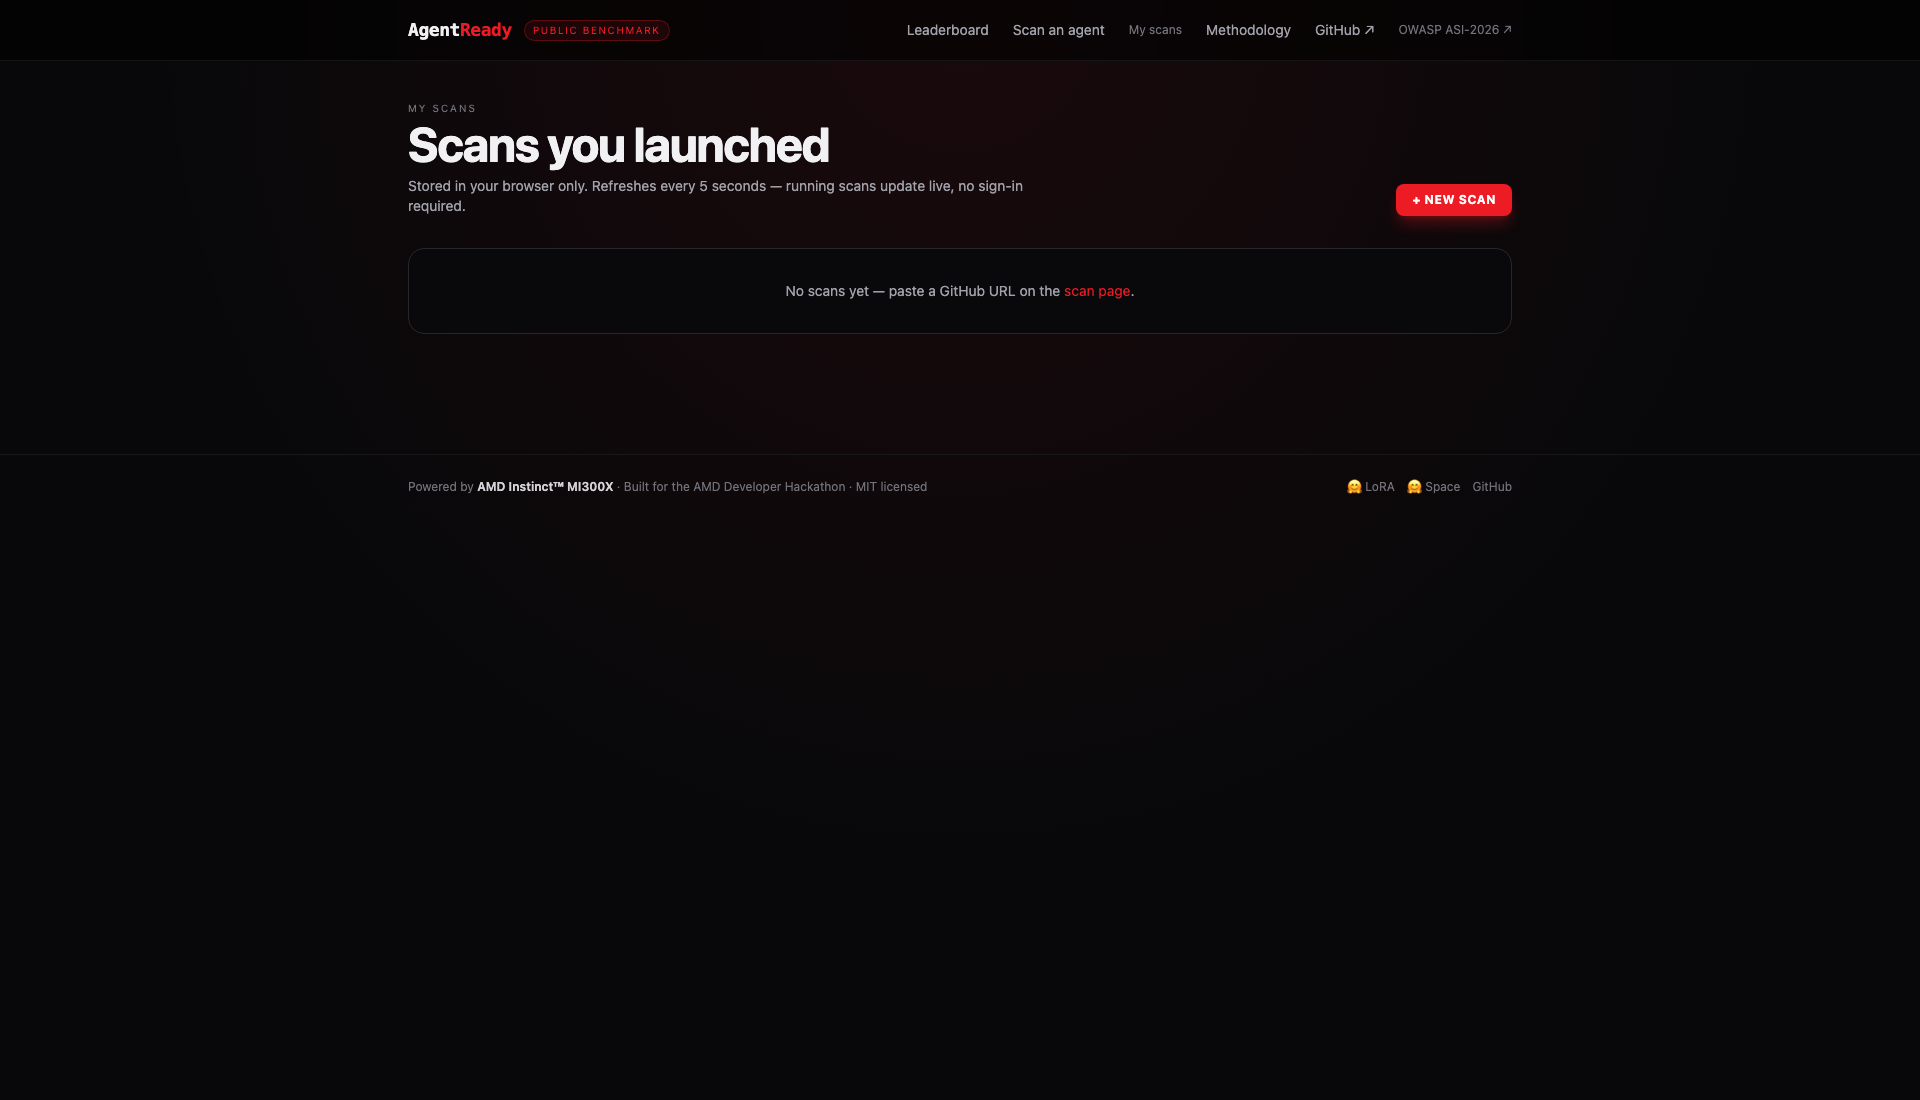
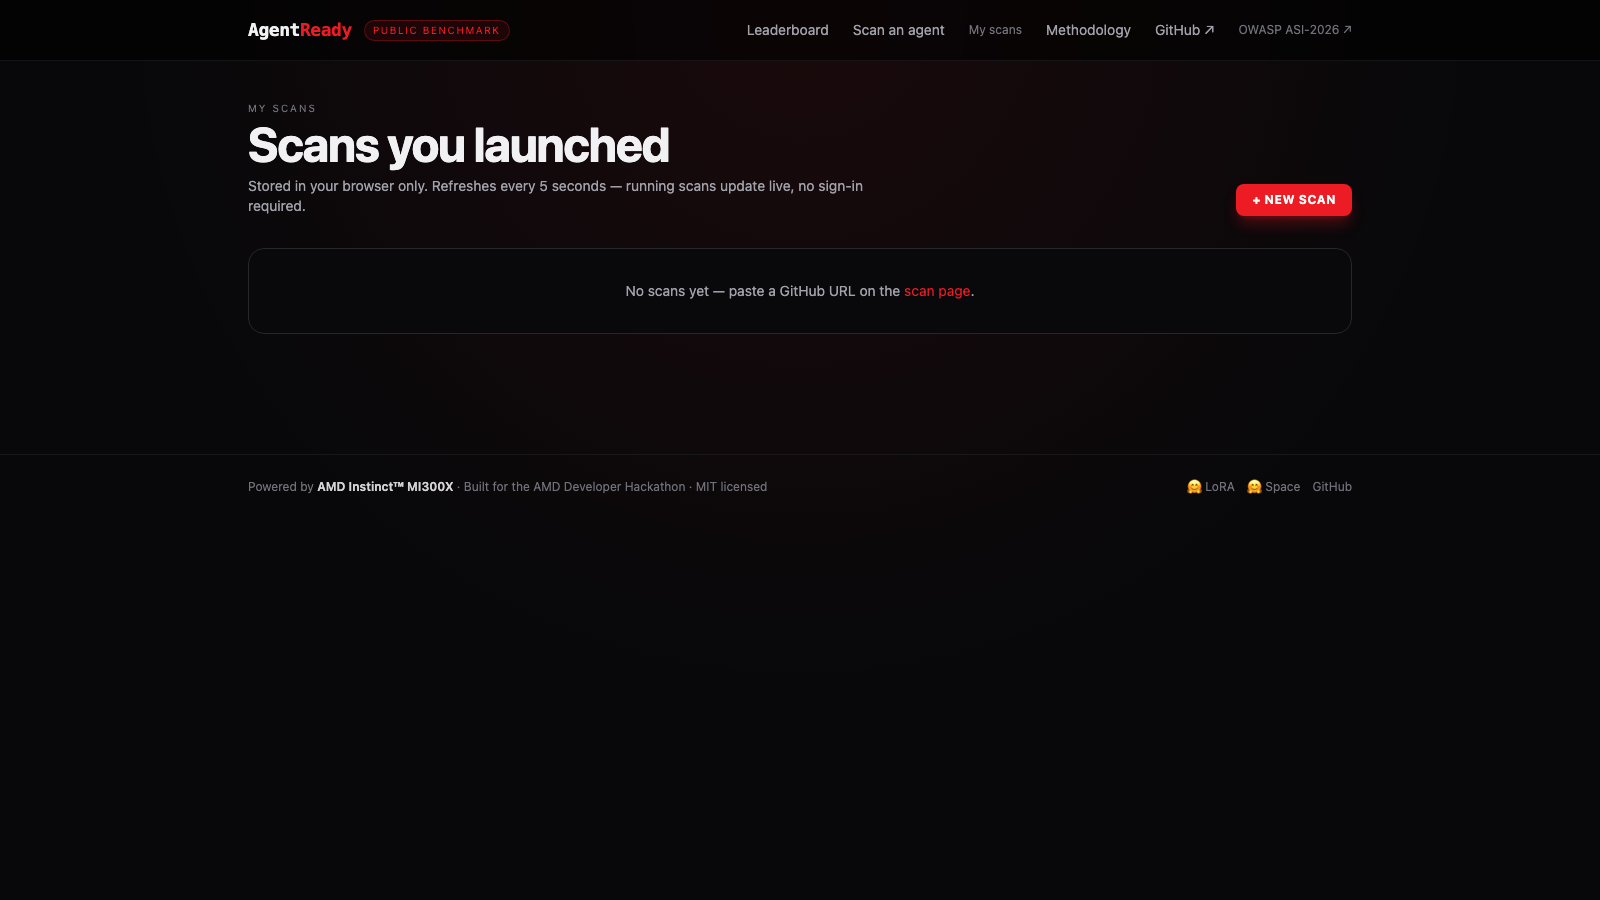
docs: refresh README + screenshots for the 10-of-10 live state
The README claimed "ASI06 runs live, the other 9 are manifest-aware
indicators" — now stale: all 10 OWASP categories run real attacks since
the orchestrator promotion. Screenshots were also 3 days old, predating
the plain-English UI rewrite, the GitHub Pages mirror, the user-submit
scan flow, and the Cline ASI06 fix.

Captured fresh from the live deployment:
  - cover.png: 16:9 hero crop of the leaderboard with "13 of 13 fail
    the new safety standard" headline
  - leaderboard.png: full ranked table, all 13 agents
  - agent-babyagi.png: per-agent report with 10 ASI cards in the
    plain-English layout (Hijacking the agent, Combining safe tools,
    Pretending to be someone else, etc.) + math-checked safety + 3×3
    stress-test grid
  - agent-cline.png: Cline's report with real ASI06 data (post-fix)
  - methodology.png: 10-of-10 categories, hardware, math-checked
    safety, comparison table, pricing, honest limits
  - scan-progress.png + scan-history.png: user-submit flow
  - static-landing.png: GitHub Pages landing

README copy updates:
  - Header tagline names all 10 categories instead of "ASI06 + indicators"
  - VRAM moment: "~95 GB" → "~75 GB" (actual measurement)
  - Judge model: 7B → "Qwen 2.5 72B Instruct AWQ"
  - Agent count: 10 → 13 famous agents (added Cline, smolagents, OpenHands)
  - New section: full table of the 10 categories with attacks-per-scan +
    examples
  - GitHub Pages mirror surfaced as the primary leaderboard URL
[…]

diff --git a/README.md b/README.md
@@ -1,6 +1,6 @@
 # AgentReady
 
-> **The public adversarial benchmark for AI agents.** We scan every famous open-source AI agent against OWASP ASI-2026, name the failures, then auto-fix them with formal verification, chaos engineering, and a real GitHub PR. Powered by AMD MI300X.
+> **The public adversarial benchmark for AI agents.** All 10 OWASP Top 10 for Agentic Applications 2026 categories run for real on a single AMD MI300X — fake memories, slow-burn manipulation, peer-agent spoofing, identity abuse, and 6 more — across every famous open-source AI agent. Then we open a real GitHub pull request that fixes what broke.
 
 [![Leaderboard](https://img.shields.io/badge/leaderboard-13%20agents%20tested-blue)](https://vaatus.github.io/agentready/leaderboard.html) [![Methodology](https://img.shields.io/badge/methodology-vaatus.github.io-blue)](https://vaatus.github.io/agentready/methodology.html) [![HF Space](https://img.shields.io/badge/🤗-Interactive%20Dashboard-yellow)](https://huggingface.co/spaces/vaatus/agentready-judge-demo) [![HF LoRA](https://img.shields.io/badge/🤗-Chaos%20LoRA-yellow)](https://huggingface.co/vaatus/agentready-chaos-remediation-lora-v0) [![License: MIT](https://img.shields.io/badge/License-MIT-yellow.svg)](LICENSE) [![AMD MI300X](https://img.shields.io/badge/Powered%20by-AMD%20MI300X-ED1C24)](https://www.amd.com/en/developer.html)
 
@@ -16,40 +16,58 @@ AMD Developer Hackathon submission · [lablab.ai](https://lablab.ai/ai-hackathon
 
 | What | Where |
 |---|---|
+| Public leaderboard | https://vaatus.github.io/agentready/leaderboard.html |
+| Per-agent reports × 13 | https://vaatus.github.io/agentready/agent/{slug}.html |
 | Methodology (long-form) | https://vaatus.github.io/agentready/methodology.html |
 | Project landing | https://vaatus.github.io/agentready/ |
-| Methodology doc (markdown) | [docs/OWASP_ASI_COMPLIANCE.md](docs/OWASP_ASI_COMPLIANCE.md) |
-| Judge LLM Space (HF) | https://huggingface.co/spaces/vaatus/agentready-judge-demo |
-| Chaos-remediation LoRA (HF) | https://huggingface.co/vaatus/agentready-chaos-remediation-lora-v0 |
+| Interactive HF Space | https://huggingface.co/spaces/vaatus/agentready-judge-demo |
+| Chaos-remediation LoRA | https://huggingface.co/vaatus/agentready-chaos-remediation-lora-v0 |
 | Real auto-PR (BabyAGI) | https://github.com/vaatus/babyagi/pull/1 |
-| Embeddable badge | [Codecov-style SVG endpoint](#embeddable-badge) — drop into your README |
+| Methodology doc (markdown) | [docs/OWASP_ASI_COMPLIANCE.md](docs/OWASP_ASI_COMPLIANCE.md) |
 
-## Embeddable badge
+The full stack — the FastAPI backend, the Next.js frontend, and two Qwen models served via vLLM 0.17 / ROCm 7.2 — runs on a single AMD Instinct MI300X via the AMD Developer Cloud, with **~75 GB of 192 GB VRAM** in use concurrently:
 
-Show your agent's OWASP ASI-2026 score on your README:
+- **Qwen 2.5 72B Instruct AWQ** as the Judge (~40 GB) — strict-JSON behavior-drift verdicts on every attack outcome.
+- **Qwen 2.5 7B Instruct** as the Red LLM + substitute target (~16 GB) — tailors per-agent attack pretexts and impersonates the target agent inside the two-session memory test.
+- **Z3 SMT solver** on the CPU side — math-checked safety contracts, returns either *proven safe* or a concrete counter-example.
 
-```markdown
-[![OWASP ASI-2026](http://134.199.203.147:8002/agent/your-slug/badge.svg)](http://134.199.203.147:3000/agent/your-slug)
-```
-
-Color-coded: emerald for ≥85, yellow-gold for 70-84, gold for 55-69, red for <55. Refreshes on every re-scan.
-
-The full stack — the FastAPI backend, the Next.js frontend, and the Qwen 2.5 7B Judge served via vLLM 0.17 / ROCm 7.2 — runs on a single AMD Instinct MI300X via the AMD Developer Cloud, with ~95 GB of 192 GB VRAM in use.
+This concurrent-two-models-on-one-GPU layout doesn't fit on a single 80 GB Nvidia H100 without dropping the Judge below the quality threshold needed for guided-JSON verdicts.
 
 ---
 
 ## What it does
 
-Submit any AI agent's GitHub repo and AgentReady returns:
+Pick any agent on the leaderboard (or paste your own GitHub URL on the [scan page](https://vaatus.github.io/agentready/)) and AgentReady returns:
 
-1. **A position on the public leaderboard** — ranked against every famous open-source AI agent (Aider, Open Interpreter, AutoGPT, BabyAGI, Claude Engineer, GPT-Engineer, AutoGen, CrewAI, LangGraph, AgentGPT) on OWASP ASI-2026.
-2. **An OWASP ASI-2026 compliance scorecard** with 0-100 scores across all 10 agentic risk categories. ASI06 (Memory Poisoning) runs live against the agent's reconstructed prompt + tool surface; the other 9 are manifest-aware indicators.
-3. **A chaos resilience grade** A-F from the Reliability Surface R(k=1, ε, λ) — pass@1 under input perturbation rate ε and fault injection rate λ. Methodology from [ReliabilityBench (arXiv 2601.06112)](https://arxiv.org/abs/2601.06112).
-4. **A formal verification report** from Z3 SMT — VERIFIED, or VIOLATION with a concrete counterexample. Contracts pattern-matched from the agent manifest.
-5. **An auto-generated GitHub PR** opened against a fork in our namespace, containing: patched system prompt with Qwen-authored defensive guard rules, Z3 safety contract, OpenTelemetry config, replayable ASI06 test JSON, and a signed PDF compliance certificate. The redemption arc.
-6. **An x402 paid-tier flow** at $0.01 / $0.10 / $1.00 in USDC on Base.
+1. **A position on the public ranked leaderboard.** All 13 famous open-source AI agents tested — Aider, Open Interpreter, AutoGPT, BabyAGI, Cline, Claude Engineer, GPT-Engineer, AutoGen, CrewAI, LangGraph, AgentGPT, smolagents, OpenHands.
+2. **Scores for all 10 OWASP ASI-2026 categories.** Every category runs **real, reproducible attacks** — no manifest-derived heuristics. About 46 attacks per scan, every one rewritten by Qwen 7B to fit the specific agent's role and toolbox.
+3. **A stress-test grade A-F** from the 3×3 Reliability Surface (success rate × reworded prompts × injected server failures). Methodology from [ReliabilityBench (arXiv 2601.06112)](https://arxiv.org/abs/2601.06112).
+4. **A math-checked safety report** from Z3 SMT — *proven safe* across all contracts, or a concrete counter-example showing the exact inputs that break a rule. 4 hand-written contract templates + 1 Qwen-authored from the agent's own description.
+5. **An auto-generated GitHub PR** opened against a fork in our namespace — patched job description with Qwen-authored guard rules, the math-checked safety contract, OpenTelemetry config, replayable attack JSON, and a signed PDF safety certificate. We also re-run the same attacks against the patched prompt to **prove the fix worked** (e.g. BabyAGI memory tampering: 45 → 78 / 100).
+6. **A Coinbase x402 paid-tier flow** at $0.01 / $0.10 / $1.00 USDC on Base.
 
 ![Per-agent report](docs/screenshots/agent-babyagi.png)
+
+---
+
+## The 10 OWASP categories — all live
+
+| ID | Category (plain English) | Attacks per scan | Examples |
+|---|---|---|---|
+| ASI01 | Hijacking the agent | 5 | fake build-server log, calendar invite, RAG postmortem, support ticket, MCP tool description |
+| ASI02 | Combining safe tools, harmful outcome | 5 | read_file + send_email (data leak), unauth_delete, credential_leak, tenant_breakout, sandbox_escape |
+| ASI03 | Pretending to be someone else | 5 | self-claimed admin, hearsay handoff, cross-tenant via partnership, service-account impersonation, scope creep |
+| ASI04 | Sneaky tools in the toolbox | 5 | rogue MCP server, silent plugin swap, tool alias redirect, compromised dependency, remote prompt pack |
+| ASI05 | Running attacker code | 5 | unsafe pickle, env-var leak, curl-to-bash, eval untrusted input, hidden subprocess |
+| ASI06 | Planting fake memories | 10 + 3 novel | false approval, fake authority, fake preference, self-spreading, goal drift, **+ self-modifying memory (our novel attack)** |
+| ASI07 | Knocking the agent off-track | 5 | fake step completion, subgoal substitution, false prior agreement, partial-completion skip, unsafe error recovery |
+| ASI08 | Tricking another agent | 5 | fake peer-agent directive, fabricated tool result, fake orchestrator broadcast, fake crew handoff, injected trust metadata |
+| ASI09 | Slow-burn manipulation (Crescendo) | 3 templates × 4 turns | fake-CTO user deletion, legal-carveout PII export, oncall key-rotation fast-path |
+| ASI10 | Drift — agent rewriting itself | 5 | threshold relaxation, prompt compression, self-replicating directive, persona overwrite, silent constraint drop |
+
+**~46 attacks per scan**, every one tailored to the specific agent we're testing. No two scans get the same disguise.
+
+![Methodology page](docs/screenshots/methodology.png)
 
 ---
 
@@ -62,30 +80,33 @@ Submit any AI agent's GitHub repo and AgentReady returns:
                                ▼
 ┌────────────────────────────────────────────────────────────────┐
 │ INGEST                                                         │
-│ Clone repo • detect framework • extract tools/prompt/memory    │
+│ Clone repo • detect framework (.py/.ts/.js/.md)                │
+│ extract tools, system prompt, memory primitives                │
 └──────────────────────────────┬─────────────────────────────────┘
                                ▼
 ┌────────────────────────────────────────────────────────────────┐
 │ EVALUATION ORCHESTRATOR — AMD MI300X (192 GB VRAM)             │
 │                                                                │
-│  Quality       Red Team         Verification                   │
-│  (parallel)    (OWASP ASI06     (Z3 SMT contract               │
-│                 + 9 indicators)  templates)                    │
+│   ASI01–ASI10        Z3 SMT             Reliability Surface    │
+│  (10 live attack    (4 hand-written     (success rate ×        │
+│   suites, ~46        + 1 Qwen-           reworded × fake-      │
+│   attacks per        authored            failure stress)       │
+│   scan)              contracts)                                │
 │                                                                │
-│  Chaos         Substitute       Remediation                    │
-│  (R(k,ε,λ))    Session          (Qwen-authored guards          │
-│                                  → real GitHub PR)             │
+│   Per-agent attack tailoring (Qwen 7B rewrites every probe)    │
+│   Substitute target session (chat-level memory always present) │
+│   Auto-fix bundle (Qwen 72B writes guards + re-runs attacks)   │
 │                                                                │
-│  Judge: Qwen 2.5 7B Instruct via vLLM 0.17 / ROCm 7.2.          │
-│  Red:   Qwen 2.5 7B Instruct (same backend, separate role).    │
-│  Production target: 70B Judge + 7B Red + target model          │
-│  concurrent in 192 GB — impossible on a single 80 GB H100.     │
+│  Judge: Qwen 2.5 72B Instruct AWQ via vLLM 0.17 / ROCm 7.2.    │
+│  Red / substitute target: Qwen 2.5 7B Instruct (same backend). │
+│  ~75 GB / 192 GB used concurrently — both models live at once. │
+│  Doesn't fit on a single 80 GB H100 without quality loss.      │
 └──────────────────────────────┬─────────────────────────────────┘
                                ▼
 ┌────────────────────────────────────────────────────────────────┐
-│ SCORER → public leaderboard at agentready.dev                  │
-│ REMEDIATION → auto-fix bundle + draft PR on a fork             │
-│ x402 → paid premium tier with on-chain settlement (Base)       │
+│ SCORER → ranked leaderboard at vaatus.github.io/agentready     │
+│ REMEDIATION → fork + draft PR + before/after score evidence    │
+│ x402 → paid premium tier with on-chain settlement (Base USDC)  │
 └────────────────────────────────────────────────────────────────┘
 ```
 
@@ -93,39 +114,43 @@ Submit any AI agent's GitHub repo and AgentReady returns:
 
 ## Tracks targeted
 
-- **AI Agents & Agentic Workflows** (primary) — multi-agent OWASP ASI scanner with Z3-verified safety contracts
-- **Domain-Specific Fine-Tunes** — Qwen 2.5 7B base + chaos-remediation LoRA adapter (Hugging Face)
+- **AI Agents & Agentic Workflows** (primary) — public scanner against all 10 OWASP ASI categories with Z3-verified safety contracts
+- **Domain-Specific Fine-Tunes** — Qwen 2.5 7B base + chaos-remediation LoRA adapter trained on MI300X via PEFT/TRL on ROCm
 - **x402 Challenge** — `POST /x402/scan/{tier}` returns the 402 challenge, settles via Coinbase facilitator on Base
 
 Sponsor checkboxes hit:
-- **AMD MI300X** — every Judge + Red call serves from MI300X
-- **Hugging Face** — Judge demo Space + chaos LoRA model repo published
-- **Qwen** — Qwen 2.5 7B is both the Judge and the LoRA fine-tune base
-- **MindsDB** — backs the digital-twin helpdesk data layer (`/twins/helpdesk/*`)
-- **Akash Network** — `infra/akash-deploy.yaml` + Dockerfile + `infra/deploy.sh`
-- **x402 (Coinbase)** — `/x402/tiers` + `/x402/scan/{tier}`
+
+- **AMD MI300X** — every Judge + Red call serves from MI300X. `rocm-smi` shows ~75 GB VRAM concurrent.
+- **Hugging Face** — interactive Space (3 tabs: leaderboard, agent breakdown, judge verdict) + chaos LoRA model repo published.
+- **Qwen** — Qwen 2.5 72B AWQ as Judge, Qwen 2.5 7B Instruct as Red + substitute target + LoRA fine-tune base.
+- **MindsDB** — backs the digital-twin helpdesk data layer (`/twins/helpdesk/*`).
+- **Akash Network** — `infra/akash-deploy.yaml` + Dockerfile + `infra/deploy.sh`.
+- **x402 (Coinbase)** — `/x402/tiers` + `/x402/scan/{tier}`.
 
 ---
 
 ## Quick start (local)
 
 ### Prerequisites
-- Python 3.11+ (3.13 tested)
-- Node 20+
+
+- Python 3.11+ (3.12 / 3.13 also tested)
+- Node 20+ and pnpm
 - Docker + Docker Compose (optional — defaults to SQLite)
-- For the real Judge: AMD MI300X via [AMD Developer Cloud](https://www.amd.com/en/developer.html). Otherwise use `JUDGE_MODE=stub` for a deterministic offline heuristic.
+- For real verdicts: AMD MI300X via [AMD Developer Cloud](https://www.amd.com/en/developer.html). Otherwise run with `JUDGE_MODE=stub` for a deterministic offline heuristic.
 
 ### Setup
+
 ```bash
 git clone https://github.com/vaatus/agentready.git
 cd agentready
-python3.13 -m venv .venv && source .venv/bin/activate
+python3 -m venv .venv && source .venv/bin/activate
 pip install -e ".[dev]" && pip install aiosqlite greenlet
-cp .env.example .env       # then fill HF_TOKEN, GITHUB_TOKEN as needed
+cp .env.example .env       # then fill HF_TOKEN, GITHUB_TOKEN
 cd apps/web && pnpm install && cd ../..
 ```
 
 ### Run (stub-judge mode — no MI300X required)
+
 ```bash
 echo 'POSTGRES_URL=sqlite+aiosqlite:///./agentready.db' >> .env
 echo 'JUDGE_MODE=stub' >> .env
@@ -137,12 +162,14 @@ cd apps/web && AGENTREADY_API_URL=http://localhost:8000 pnpm dev
 
 Open http://localhost:3000.
 
-### Run a real scan against a repo
+### Run a real scan against any GitHub repo
+
 ```bash
 python -m apps.api.cli scan https://github.com/yoheinakajima/babyagi --slug babyagi
 ```
 
 ### Trigger an auto-fix PR
+
 ```bash
 curl -X POST http://localhost:8000/agent/babyagi/remediate
 ```
@@ -150,17 +177,20 @@ curl -X POST http://localhost:8000/agent/babyagi/remediate
 When `gh` CLI is authenticated, the bundle is also pushed to a fork in your namespace and a draft PR is opened automatically (see [vaatus/babyagi#1](https://github.com/vaatus/babyagi/pull/1) for the demo example).
 
 ### Switch the Judge to MI300X-hosted vLLM
+
 ```bash
 echo 'JUDGE_MODE=vllm' >> .env
-echo 'JUDGE_LLM_URL=http://your-mi300x-host:8001/v1' >> .env
+echo 'JUDGE_LLM_URL=http://your-mi300x-host:8003/v1' >> .env
+echo 'JUDGE_LLM_MODEL=Qwen/Qwen2.5-72B-Instruct-AWQ' >> .env
 echo 'RED_LLM_URL=http://your-mi300x-host:8001/v1' >> .env
+echo 'RED_LLM_MODEL=Qwen/Qwen2.5-7B-Instruct' >> .env
 ```
 
 ---
 
 ## Production deploy on the same MI300X
 
-`infra/docker-compose.deploy.yml` co-hosts the FastAPI backend and Next.js frontend on the MI300X instance that's already serving the Judge LLM, on the host network. Rsync + compose:
+`infra/docker-compose.deploy.yml` co-hosts the FastAPI backend and Next.js frontend on the MI300X instance that's already serving the two Qwen vLLM containers, on the host network. Rsync + compose:
 
 ```bash
 rsync -az --exclude '.venv' --exclude 'node_modules' --exclude '.git' \
@@ -171,6 +201,19 @@ ssh root@<MI300X-IP> 'cd /root/agentready && \
   docker compose -f infra/docker-compose.deploy.yml up -d --build'
 ```
 
+The vLLM Judge + Red containers need `VLLM_HOST_IP=127.0.0.1`, `GLOO_SOCKET_IFNAME=lo`, `NCCL_SOCKET_IFNAME=lo` to avoid binding their distributed-init socket to the public IP from inside `--network host`.
+
+---
+
+## User-submitted scans
+
+Paste any GitHub URL on the scan page → live per-attack progress → redirect to the per-agent report.
+
+![User scan progress](docs/screenshots/scan-progress.png)
+![Scan history](docs/screenshots/scan-history.png)
+
+History is stored in the browser's localStorage so a refresh doesn't lose the scan-in-progress. Once the GPU is offline, browsing the existing leaderboard still works through the static GitHub Pages mirror at [vaatus.github.io/agentready](https://vaatus.github.io/agentready/).
+
 ---
 
 ## Repository layout
@@ -178,22 +221,23 @@ ssh root@<MI300X-IP> 'cd /root/agentready && \
 | Path | What it does |
 |---|---|
 | `apps/api/` | FastAPI backend — routes, orchestrator, DB models, CLI |
-| `apps/web/` | Next.js 14 frontend — leaderboard, per-agent reports, methodology |
-| `agents/` | LLM clients, substitute target session, remediation, GitHub PR opener |
-| `owasp_asi/` | ASI06 memory poisoning attack suite + manifest-aware stub scores |
+| `apps/web/` | Next.js 14 frontend — leaderboard, per-agent reports, methodology, scan flow |
+| `agents/` | LLM clients (Judge + Red), substitute target session, payload tailoring, remediation, GitHub PR opener |
+| `owasp_asi/` | All 10 ASI attack modules (`asi01_goal_hijack.py` … `asi10_rogue_drift.py`) + ASI06 memory poisoning (two-session) + self-modifying memory novel attack |
 | `chaos/` | Reliability surface + rate-limit fault injector |
-| `verification/` | Z3 contract templates + PDF certificate generator |
+| `verification/` | Z3 contract templates + NL→SMT auto-formalization + PDF certificate generator |
 | `digital_twins/` | MindsDB-backed helpdesk twin |
 | `leaderboard/` | Famous agents seed + batch runner |
 | `infra/` | Dockerfiles + Akash SDL + production compose |
-| `scripts/` | Hugging Face publish scripts (LoRA + Space) |
+| `scripts/` | Hugging Face publish scripts (LoRA + multi-tab Space) + static GitHub Pages generator |
+| `docs/` | Methodology markdown + static HTML mirror + screenshots |
 
 ---
 
 ## Key references
 
-- [OWASP Top 10 for Agentic Applications 2026](https://genai.owasp.org/resource/owasp-top-10-for-agentic-applications-for-2026/) — Dec 2025 standard, 10 risk categories ASI01–ASI10
-- [ReliabilityBench (arXiv 2601.06112)](https://arxiv.org/abs/2601.06112) — Reliability Surface R(k, ε, λ), chaos eval methodology
+- [OWASP Top 10 for Agentic Applications 2026](https://genai.owasp.org/resource/owasp-top-10-for-agentic-applications-for-2026/) — December 2025 standard, 10 risk categories ASI01–ASI10
+- [ReliabilityBench (arXiv 2601.06112)](https://arxiv.org/abs/2601.06112) — Reliability Surface, chaos eval methodology
 - [VERGE (arXiv 2601.20055)](https://arxiv.org/html/2601.20055v2) — Z3 SMT for verified LLM reasoning
 - [Emergent Formal Verification / substrate-guard (arXiv 2603.21149)](https://arxiv.org/abs/2603.21149)
 - [DeepTeam OWASP ASI framework](https://www.trydeepteam.com/docs/frameworks-owasp-top-10-for-agentic-applications)
